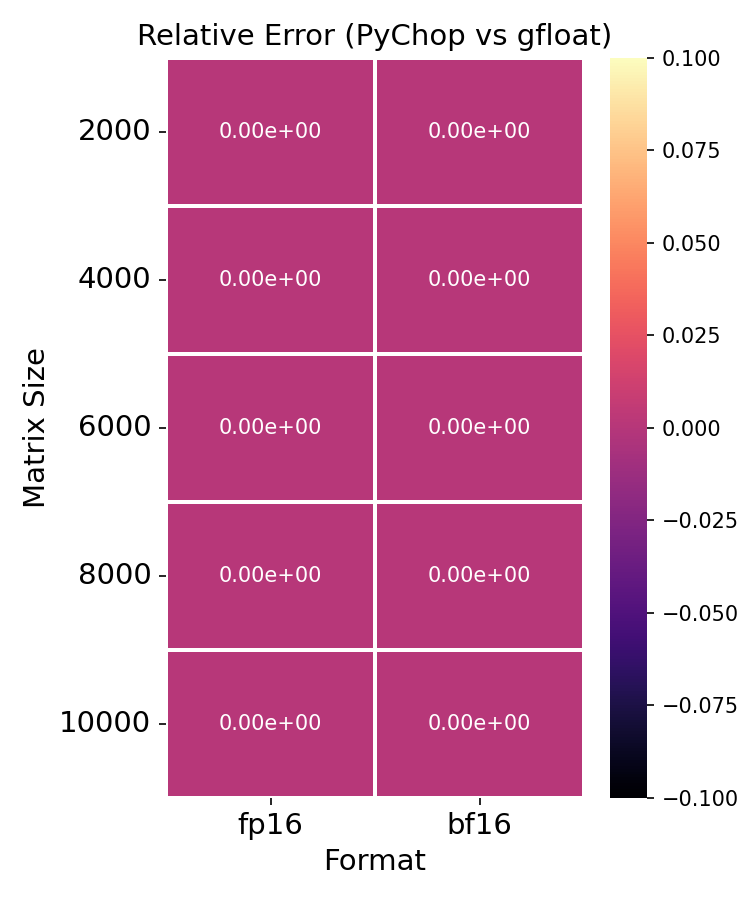
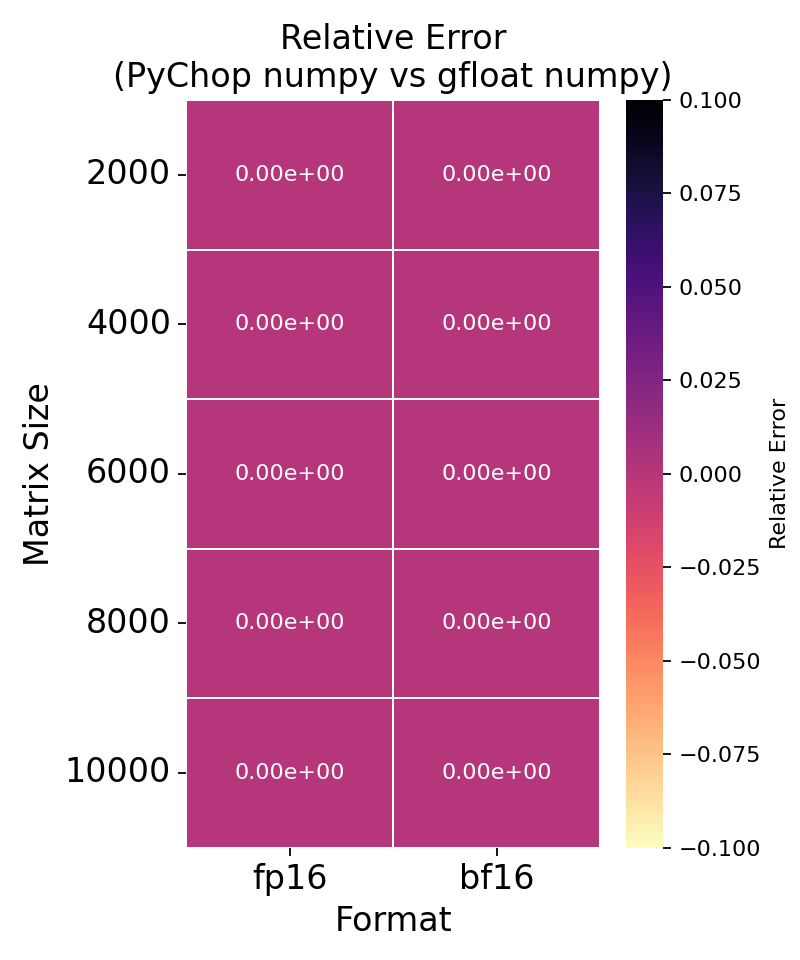
update data

diff --git a/exps/compare_gfloat_plot.py b/exps/compare_gfloat_plot.py
@@ -3,148 +3,126 @@ import matplotlib.pyplot as plt
 import os
 import seaborn as sns
 
-# Create output directory if it does not exist
+# Create output directory if needed
 os.makedirs("figures", exist_ok=True)
 
-# Load previously saved results (make sure the filename matches your saved file)
+# Load results
 data = np.load("quantize_results.npz", allow_pickle=True)
-results = data["results"].item()  # loaded as a dictionary
+results = data["results"].item()
 
-# Extract matrix sizes (sorted for consistent plotting)
-sizes = sorted(results.keys())  # e.g. [2000, 4000, 6000, 8000, 10000]
-
-# Define formats (you can also extract them dynamically if preferred)
+# Extract sizes and formats
+sizes = sorted(results.keys())
 formats = ["binary16", "bfloat16"]
 
-# Prepare time dictionaries: format → backend → list of times across sizes
-times_pychop = {fmt: {} for fmt in formats}
-times_gfloat = {fmt: {} for fmt in formats}
+# Prepare time data: format → library → backend → list of times
+times = {
+    "pychop":   {fmt: {} for fmt in formats},
+    "gfloat":   {fmt: {} for fmt in formats},
+}
 
 for fmt in formats:
     for size in sizes:
         res = results[size][fmt]
-        
-        # We use numpy backend for the fairest comparison
-        times_pychop[fmt].setdefault("numpy", []).append(res["pychop_numpy"]["time"])
-        times_gfloat[fmt].setdefault("numpy", []).append(res["gfloat_numpy"]["time"])
-
-        # Optional: collect other backends if you want to plot them later
-        # times_pychop[fmt].setdefault("jax", []).append(res["pychop_jax"]["time"])
-        # times_gfloat[fmt].setdefault("jax", []).append(res["gfloat_jax"]["time"])
+        for lib in ["pychop", "gfloat"]:
+            for backend in ["numpy", "jax", "torch"]:
+                key = f"{lib}_{backend}"
+                if key in res:
+                    times[lib][fmt].setdefault(backend, []).append(res[key]["time"])
 
 # ────────────────────────────────────────────────
-# Time comparison plots — one figure per format (bf16 and fp16 separately)
+# Time comparison: one figure per format, all backends shown
 # ────────────────────────────────────────────────
 
-fontsize = 14
-linewidth = 2
-markers = ['o', 's', '^']
-linestyles = ['-', '--']
+fontsize = 15
+linewidth = 1.8
+markers = ['o', 's', '^', 'D', 'v', 'P']
+linestyles = ['-', '--', '-.']
 
-# Which backends to include in the plot (currently only numpy)
-backends_to_plot = ["numpy"]
+backend_labels = {
+    "numpy": "NumPy",
+    "jax":   "JAX",
+    "torch": "PyTorch"
+}
 
-for fmt in ["bfloat16", "binary16"]:
-    label_map = {"bfloat16": "bf16", "binary16": "fp16"}
-    short_name = label_map[fmt]
+for fmt in formats:
+    short_name = "fp16" if fmt == "binary16" else "bf16"
     
-    plt.figure(figsize=(8, 6))
+    plt.figure(figsize=(10, 6))
     
-    for backend in backends_to_plot:
-        # Plot PyChop
-        plt.plot(sizes, times_pychop[fmt][backend],
-                 marker='o', linestyle='-',
-                 linewidth=linewidth, markersize=8,
-                 label=f"PyChop ({short_name})")
+    lines = []
+    labels = []
+    
+    for i, backend in enumerate(["numpy", "jax", "torch"]):
+        # PyChop
+        if backend in times["pychop"][fmt]:
+            line, = plt.plot(
+                sizes, times["pychop"][fmt][backend],
+                marker=markers[i], linestyle=linestyles[0],
+                linewidth=linewidth, markersize=7,
+                label=f"PyChop {backend_labels[backend]}"
+            )
+            lines.append(line)
+            labels.append(f"PyChop {backend_labels[backend]}")
         
-        # Plot gfloat
-        plt.plot(sizes, times_gfloat[fmt][backend],
-                 marker='s', linestyle='--',
-                 linewidth=linewidth, markersize=8, alpha=0.85,
-                 label=f"gfloat ({short_name})")
+        # gfloat
+        if backend in times["gfloat"][fmt]:
+            line, = plt.plot(
+                sizes, times["gfloat"][fmt][backend],
+                marker=markers[i+3], linestyle=linestyles[1],
+                linewidth=linewidth, markersize=7, alpha=0.9,
+                label=f"gfloat {backend_labels[backend]}"
+            )
+            lines.append(line)
+            labels.append(f"gfloat {backend_labels[backend]}")
     
     plt.xlabel("Matrix Size", fontsize=fontsize)
-    plt.ylabel("Average Time (seconds)", fontsize=fontsize)
-    plt.title(f"PyChop vs gfloat — {short_name}", fontsize=fontsize + 2)
-    plt.xticks(sizes, fontsize=fontsize)
-    plt.yticks(fontsize=fontsize)
-    plt.grid(True, alpha=0.3)
-    plt.legend(fontsize=fontsize, loc="upper left")
-    plt.tight_layout()
+    plt.ylabel("Average Quantization Time (s)", fontsize=fontsize)
+    #plt.title(f"Quantization Performance — {short_name}", fontsize=fontsize + 2)
+    plt.xticks(sizes, fontsize=fontsize-1)
+    plt.yticks(fontsize=fontsize-1)
+    plt.grid(True, alpha=0.25, linestyle='--')
     
-    # Save separate figures for each format
-    safe_name = short_name.replace(" ", "_")
-    plt.savefig(f"figures/time_comparison_{safe_name}.png", dpi=150)
-    plt.close()
-
-# ────────────────────────────────────────────────
-# Consistency heatmap (both formats together)
-# ────────────────────────────────────────────────
-
-match_matrix = np.zeros((len(sizes), len(formats)))
-
-# Note: If you did not save a "match" field, this will remain all zeros.
-# You can add your own consistency check logic here if needed.
-for i, size in enumerate(sizes):
-    for j, fmt in enumerate(formats):
-        # Example: match_matrix[i, j] = int(results[size][fmt].get("match", 0))
-        pass
-
-# Only generate the plot if there is any non-zero data
-if np.any(match_matrix):
-    plt.figure(figsize=(5, 6))
-    sns.heatmap(match_matrix,
-                annot=True,
-                xticklabels=[label_map.get(f, f) for f in formats],
-                yticklabels=sizes,
-                cmap="Greens",
-                cbar=False,
-                fmt=".0f",
-                linewidths=1)
-    plt.xlabel("Format", fontsize=fontsize)
-    plt.ylabel("Matrix Size", fontsize=fontsize)
-    plt.title("Consistency (1 = match)", fontsize=fontsize)
-    plt.xticks(fontsize=fontsize)
-    plt.yticks(fontsize=fontsize, rotation=0)
+    # Put legend outside to avoid crowding
+    plt.legend(lines, labels,
+               loc='upper left', bbox_to_anchor=(1.02, 1),
+               fontsize=fontsize-1, frameon=True)
+    
     plt.tight_layout()
-    plt.savefig("figures/consistency_heatmap.png", dpi=150)
+    plt.savefig(f"figures/time_comparison_{short_name}.png", dpi=160, bbox_inches='tight')
     plt.close()
 
 # ────────────────────────────────────────────────
-# Relative error heatmap (both formats together)
+# Relative error heatmap (PyChop numpy vs gfloat numpy)
 # ────────────────────────────────────────────────
+
+label_map = {"binary16": "fp16", "bfloat16": "bf16"}
 
 err_matrix = np.zeros((len(sizes), len(formats)))
 
 for i, size in enumerate(sizes):
     for j, fmt in enumerate(formats):
-        # Retrieve the relative error saved earlier
-        err_matrix[i, j] = results[size][fmt].get("rel_error_numpy", 0.0)
+        err_matrix[i, j] = results[size][fmt].get("rel_error_numpy", np.nan)
 
 plt.figure(figsize=(5, 6))
 sns.heatmap(err_matrix,
             annot=True,
             fmt=".2e",
-            xticklabels=[label_map.get(f, f) for f in formats],
+            xticklabels=[label_map[f] for f in formats],
             yticklabels=sizes,
-            cmap="magma",
-            linewidths=1)
+            cmap="magma_r",
+            linewidths=0.8,
+            cbar_kws={'label': 'Relative Error'})
 
 plt.xlabel("Format", fontsize=fontsize)
 plt.ylabel("Matrix Size", fontsize=fontsize)
-plt.title("Relative Error (PyChop vs gfloat)", fontsize=fontsize)
+plt.title("Relative Error\n(PyChop numpy vs gfloat numpy)", fontsize=fontsize)
 plt.xticks(fontsize=fontsize)
 plt.yticks(fontsize=fontsize, rotation=0)
 plt.tight_layout()
-plt.savefig("figures/relative_error_heatmap.png", dpi=150)
+plt.savefig("figures/relative_error_heatmap.png", dpi=160)
 plt.close()
 
-# ────────────────────────────────────────────────
-# Print summary of saved figures
-# ────────────────────────────────────────────────
-
-print("Figures saved in ./figures/")
-print("  - time_comparison_bf16.png")
-print("  - time_comparison_fp16.png")
-print("  - consistency_heatmap.png      (if consistency data exists)")
-print("  - relative_error_heatmap.png")
+print("Saved figures:")
+print("  figures/time_comparison_fp16.png")
+print("  figures/time_comparison_bf16.png")
+print("  figures/relative_error_heatmap.png")
